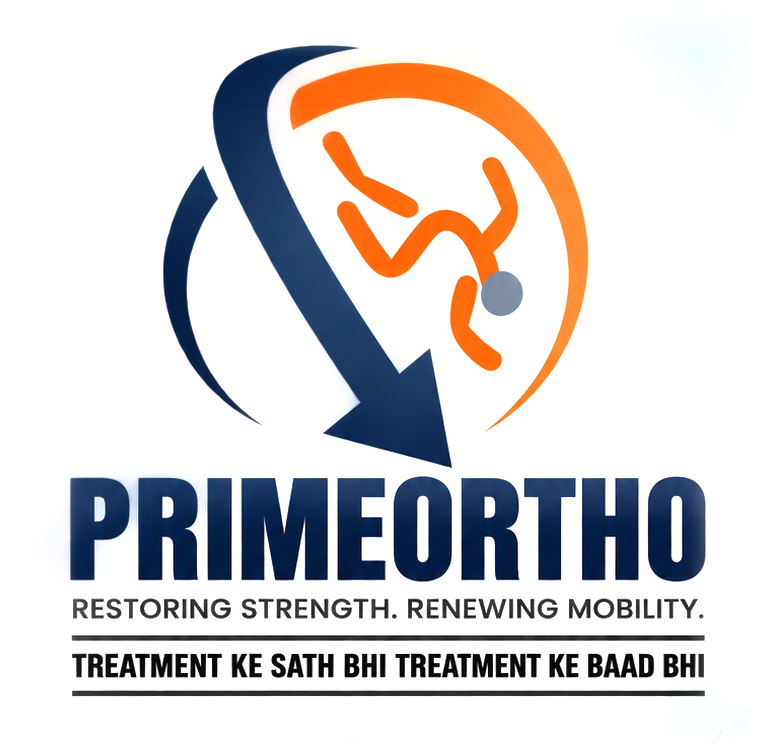
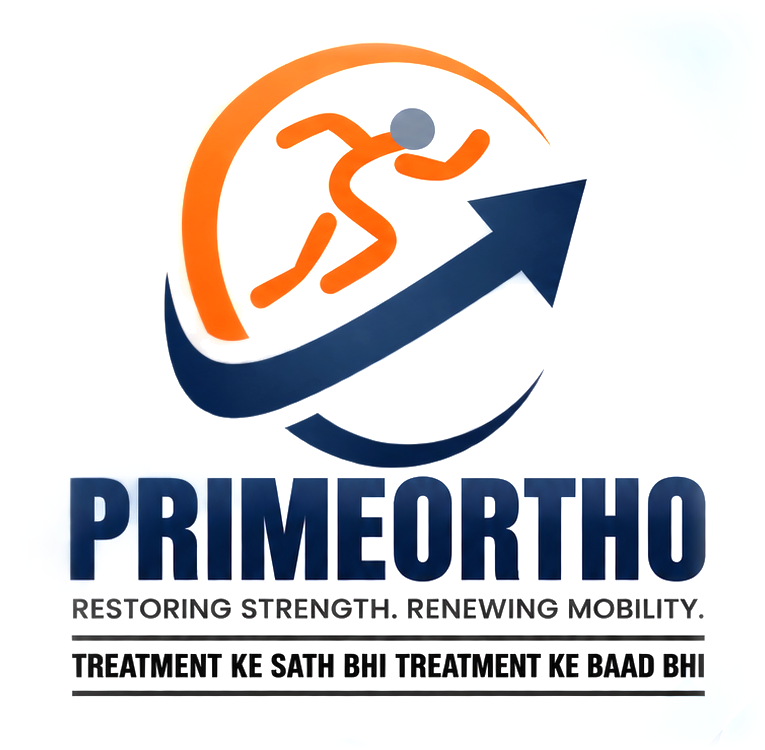
Rotate the PrimeOrtho mark 90 degrees anticlockwise (arrow at 2 o'clock) [release]
Launcher icons, in-app brand images and Play Store art are regenerated from
the updated generator scripts.

Claude-Session: https://claude.ai/code/session_01DoRBjgizVGktxHpmZ2xNzm

Changed region(s): [[0.2105, 0.0307, 0.7817, 0.644], [0.6614, 0.5213, 0.6915, 0.552]]

diff --git a/mobile/tool/generate_brand_images.py b/mobile/tool/generate_brand_images.py
@@ -19,7 +19,7 @@ import os
 import numpy as np
 from PIL import Image
 
-from generate_launcher_icons import load_mark
+from generate_launcher_icons import MARK_ROTATION, load_mark, white_to_alpha
 
 MOBILE = os.path.dirname(os.path.dirname(os.path.abspath(__file__)))
 LOCKSCREEN = os.path.join(MOBILE, "branding", "lockscreen.png")
@@ -33,6 +33,11 @@ FEATHER = {"left": 0.11, "right": 0.11, "top": 0.08, "bottom": 0.06}
 # Channel values above WHITEN_FROM fade smoothly to pure white by WHITEN_TO.
 WHITEN_FROM = 0.72
 WHITEN_TO = 0.93
+# The mark inside the hero crop: it spans x 163-588, y 45-467, and the wordmark
+# starts at y 476. It is turned like the launcher mark (MARK_ROTATION) about the
+# centre of its circle, which keeps it inside the same area, clear of the text.
+HERO_MARK_BOX = (150, 30, 602, 472)
+HERO_MARK_CENTER = (375, 256)
 
 
 def smoothstep(x: np.ndarray) -> np.ndarray:
@@ -56,6 +61,7 @@ def hero() -> None:
     crop = Image.fromarray(
         np.dstack([(rgb * 255).round().astype(np.uint8), np.asarray(crop)[..., 3]]), "RGBA"
     )
+    crop = rotate_hero_mark(crop)
     w, h = crop.size
     xs = np.arange(w)[None, :] / (w - 1)
     ys = np.arange(h)[:, None] / (h - 1)
@@ -71,6 +77,23 @@ def hero() -> None:
     path = os.path.join(OUT, "brand_hero.png")
     out.save(path, "PNG", optimize=True)
     print(f"  brand_hero.png {w}x{h}")
+
+
+def rotate_hero_mark(crop: Image.Image) -> Image.Image:
+    """Lift the mark out of the (whitened) lockup, turn it, and put it back."""
+    layer = Image.new("RGBA", crop.size, (0, 0, 0, 0))
+    layer.alpha_composite(white_to_alpha(crop.crop(HERO_MARK_BOX)), HERO_MARK_BOX[:2])
+    cx, cy = HERO_MARK_CENTER
+    r = max(cx - HERO_MARK_BOX[0], HERO_MARK_BOX[2] - cx, cy - HERO_MARK_BOX[1], HERO_MARK_BOX[3] - cy)
+    square = (cx - r, cy - r, cx + r, cy + r)
+    turned = Image.new("RGBA", crop.size, (0, 0, 0, 0))
+    turned.alpha_composite(layer.crop(square).transpose(MARK_ROTATION), square[:2])
+    # Nothing may land on the wordmark below the mark's area.
+    assert turned.crop((0, HERO_MARK_BOX[3], *crop.size)).getbbox() is None, "rotated mark hits the wordmark"
+    out = crop.copy()
+    out.paste((255, 255, 255, 255), HERO_MARK_BOX)
+    out.alpha_composite(turned)
+    return out
 
 
 def mark() -> None:

diff --git a/mobile/tool/generate_launcher_icons.py b/mobile/tool/generate_launcher_icons.py
@@ -44,6 +44,10 @@ PLAY_ICON_PATH = os.path.join(MOBILE, "branding", "play-store", "play-store-icon
 # shadow is included.
 MARK_BOX = (148, 143, 1121, 1110)
 
+# The source art has the arrow pointing to ~5 o'clock; the brand shows it at
+# ~2 o'clock, so the whole mark is turned 90 degrees anticlockwise (lossless).
+MARK_ROTATION = Image.Transpose.ROTATE_90
+
 # Anything this close to white counts as page, not mark (clears faint shadow/noise).
 WHITE_THRESHOLD = 10
 
@@ -62,9 +66,14 @@ SUPERSAMPLE = 4
 
 
 def load_mark() -> Image.Image:
-    """The mark on transparency: white -> alpha, reversible over a white background."""
+    """The mark on transparency, turned to the brand orientation (see MARK_ROTATION)."""
     src = Image.open(SOURCE_PATH).convert("RGB").crop(MARK_BOX)
-    rgb = np.asarray(src).astype(np.float64)
+    return white_to_alpha(src).transpose(MARK_ROTATION)
+
+
+def white_to_alpha(src: Image.Image) -> Image.Image:
+    """Art drawn on white -> the same art on transparency, reversible over white."""
+    rgb = np.asarray(src.convert("RGB")).astype(np.float64)
     # Colour-to-alpha against white: the least alpha that reproduces the pixel
     # when composited back over white.
     diff = np.max(255.0 - rgb, axis=2)
